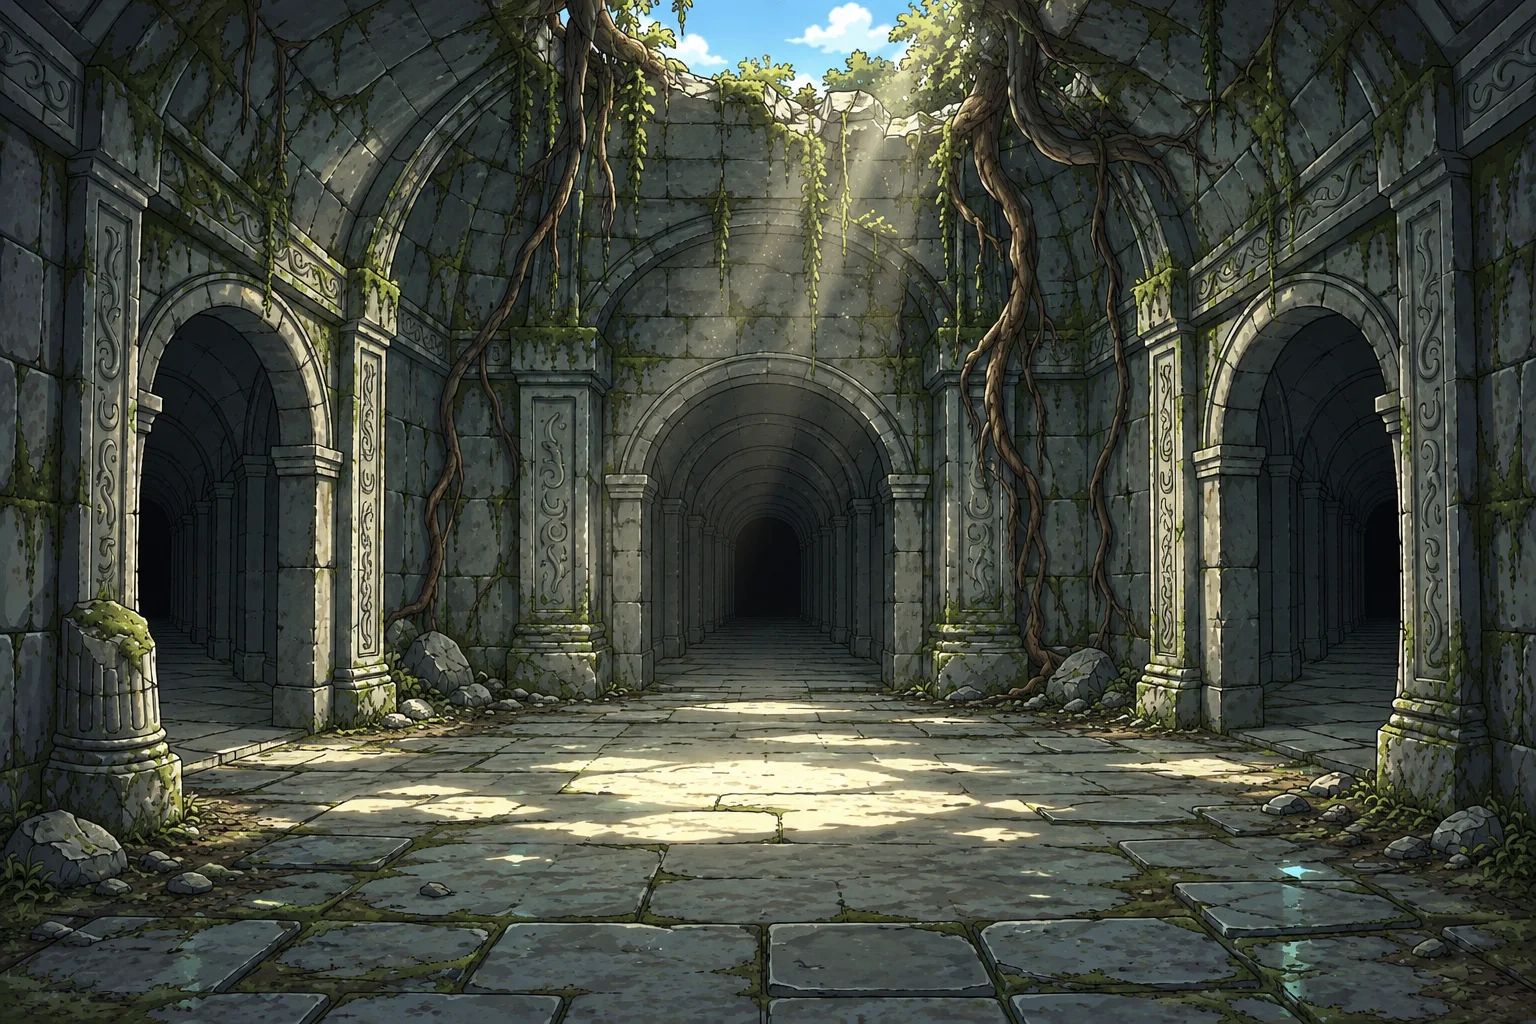
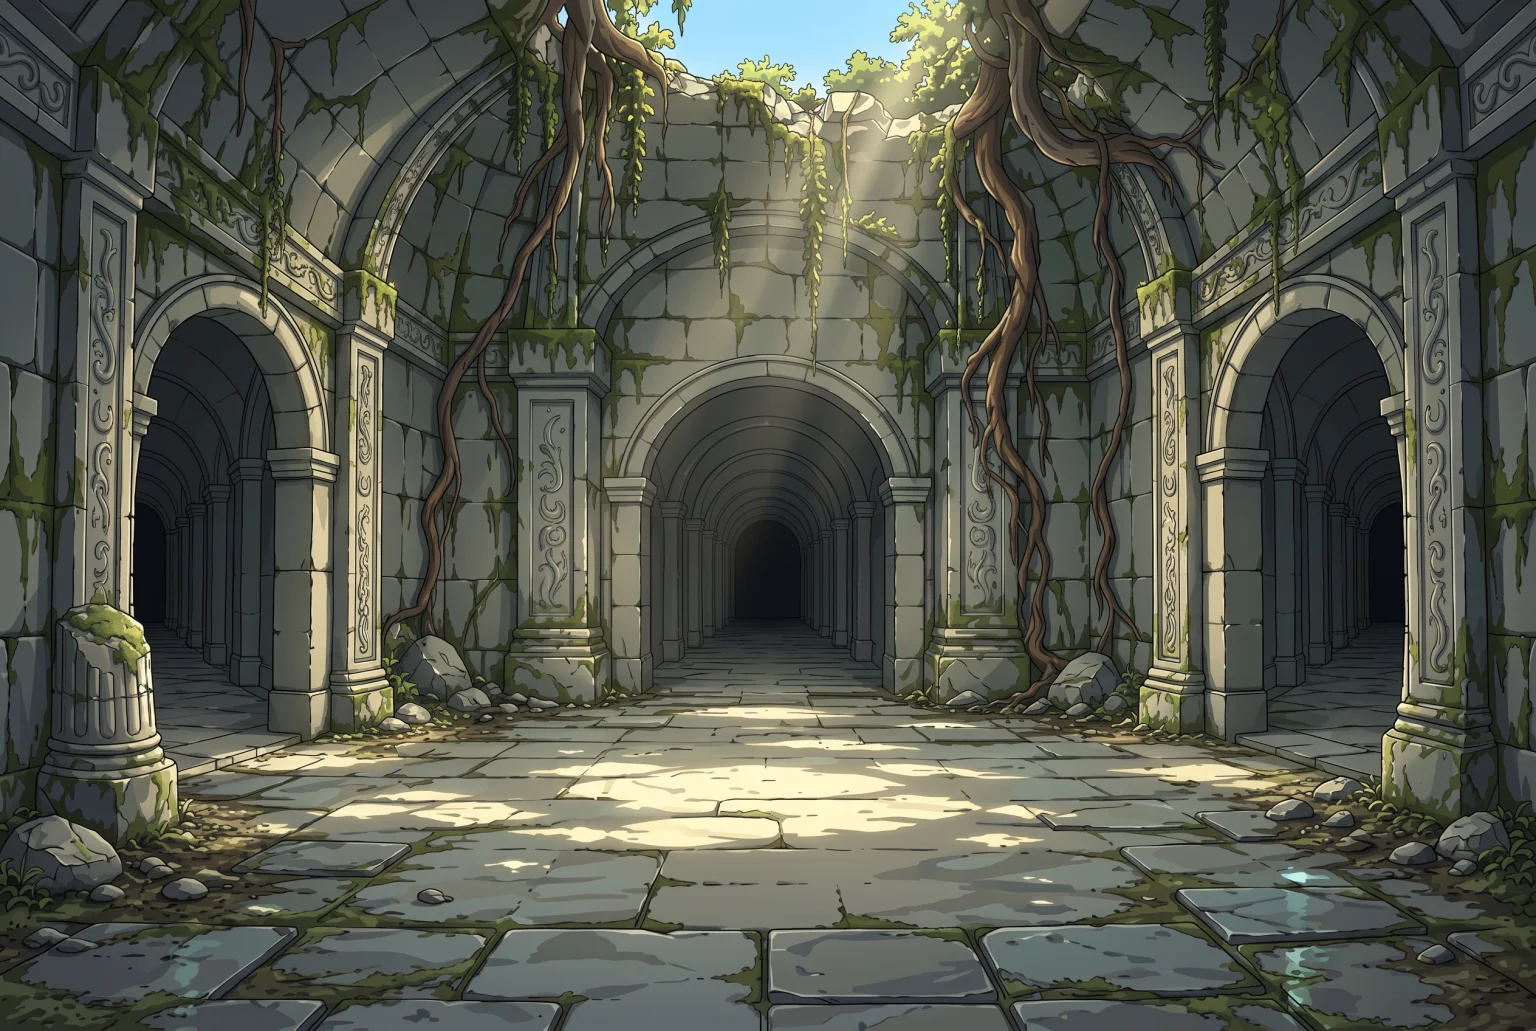
fix(bg): 三岔背景三張主圖補跑 Gemini 去顆粒重繪（Ray：顆粒多到刺眼）
- Crossway_day／Brazier／Hollow 原本是 GPT 原圖直接入庫，漏了憲法 §5 場景分工的
  「Gemini 收斂成平塗、去顆粒」那一趟；Ray 指出顆粒刺眼後補跑
- 構圖／視角／三個出口位置與大小／光源／色調全部鎖住，只換上色方式
- GPT 原版進回收區；dawn/dusk/night 本來就是 Gemini 產物，不受影響
- 自檢教訓寫進 spec：縮圖看不出顆粒，要 100% 裁切看石面

diff --git a/resources/background/_ruins_spec.md b/resources/background/_ruins_spec.md
@@ -194,4 +194,10 @@ WebP q85 → `resources/background/`；原檔 → `resources/_originals/backgrou
     dawn 比 day 還亮且無晨霧。兩張舊版已進回收區。
     **教訓：時段差分交件前用「平均亮度＋R/B 比」量一次**——
     night 應明顯最暗且 R/B<1，dawn 應比 day 暗、R/B<1。目檢容易放過「暖光夜景」。
+  · ⚠⚠ **三張主圖後來補跑了 Gemini 去顆粒重繪**（Ray：「跑新的就好，顆粒多到刺眼」）——
+    我原本只用 Gemini 做時段差分、主圖直接用 GPT 原圖入庫，那**漏了憲法 §5 場景分工的
+    「Gemini 收斂／去顆粒」那一趟**。現行 `Crossway_day`／`Brazier`／`Hollow` 都是去顆粒版，
+    GPT 原版進回收區、原稿仍在 `_cross_gpt/`。
+    ⚠ **自檢**：GPT 出的場景圖縮圖看起來乾淨不代表沒事 —— 要 100% 裁切看石面／地面，
+    顆粒在原尺寸才顯出來。**場景一律要過 Gemini 那一趟，不要因為「看起來夠平」就跳過。**
   · 神殿現有 42 張，像素指紋兩兩互異。
